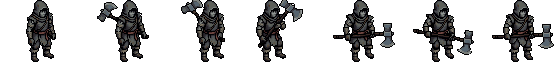
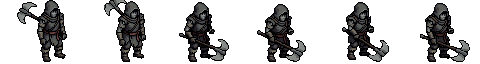
v3.8 — Balta saldırısında balta artık sırtta görünmüyor
Ölçüldü: güney saldırısında 7 karenin 5'i gövde genişliğindeydi (35,34,32,
31,31,65,66) — yani balta sırtta dik duruyor, yalnızca son iki kare savuruş.
Tarif karelerin çoğunu KALDIRMA fazına harcıyordu.

Yeni tarif animasyonu zaten havada başlatıyor ve baltanın gövdenin ÖNÜNDE
kalmasını şart koşuyor. Aynı ölçüm şimdi 35,34,39,59,58,62,63; kalan 1-3
hazırlık karesi de kırpma listesine eklenerek atılıyor (balta Attack artık
ONDEN_AT'ta). Sonuç: her karede balta önde.

Yürüyüşün başlangıç kare indisleri de yeni saldırı karelerine göre
güncellendi — yürüyüş kareleri zaten üretilmişti, bu yalnızca ileride
yeniden basılırsa doğru kareden başlasın diye.

Maliyet: 5 üretim.

diff --git a/lib/game/data.ts b/lib/game/data.ts
@@ -1,6 +1,6 @@
 /** Oyun surumu. Her yayina cikan degisiklikte 0.1 artar: 0.1, 0.2 ... 0.9,
  *  sonra 1.0, 1.1 diye devam eder. Ekranin sol altinda gorunur. */
-export const SURUM = '3.7';
+export const SURUM = '3.8';
 /** Gelisim asamasi. Oyun oynanabilir ama icerik ve sistemler (item seti, dil
  *  secenegi, masaustu arayuzu) hala eksik - yani alfa. Beta'ya gecisi bu sabit
  *  tasir; surum numarasiyla ayri tutuldu ki 1.x sayimi bozulmasin. */

diff --git a/scripts/v3_anim.py b/scripts/v3_anim.py
@@ -93,10 +93,14 @@ YUMRUK_VUR = ('throws a strong straight punch forward with the leading fist, sho
 # Balta seti icin ayri bir karakter DURUMU basilmadi (20 uretim): yay setinde
 # ogrenildi ki v3 uretken oldugu icin tarif yeterince israrciysa silahi kendisi
 # ciziyor. Baslangic karesi silahsiz TABAN karakter.
-BALTA_VUR = ('raises a large heavy two-handed splitting axe over the shoulder and brings '
-             'it down in a wide arc across the body, then pulls it back to a ready '
-             'stance; the axe has a broad steel head on a long wooden haft and is '
-             'gripped in both hands in every single frame')
+# Ilk tarif ("omuza kaldirir ve indirir") karelerin cogunu KALDIRMA fazina
+# harciyordu: 7 karenin 5'inde balta sirtta dik duruyor, yalnizca son ikisi
+# savurus. Yeni tarif animasyonu zaten havada BASLATIYOR ve baltanin govdenin
+# ONUNDE kalmasini sart kosuyor.
+BALTA_VUR = ('already holding a large heavy two-handed axe raised high overhead, swings '
+             'it down in a heavy arc in front of the body and follows through low, then '
+             'lifts it back up; the broad steel axe head is out in FRONT of the body in '
+             'every single frame and never rests on the back or the shoulder')
 BALTA_YUR = ('walks forward with a steady stride, legs alternating clearly, carrying a '
              'large two-handed axe resting on the shoulder; the broad axe head is '
              'clearly visible above the shoulder in every single frame')
@@ -138,11 +142,13 @@ BASLANGIC = {('yay', 'Walk', 'south-east'): ('Attack', 'south-east', 2),
              # Balta yuruyusu de saldiri karesinden basliyor: taban karakterin
              # donus karesinde balta yok, oradan baslayinca yuruyuste silah
              # kaybolur. Secilen kareler baltanin omuzda DIK durdugu anlar.
+             # Indisler saldiri tarifi degisince yenilendi: baltanin acikca
+             # elde oldugu ilk kareler.
              ('balta', 'Walk', 'south'): ('Attack', 'south', 3),
              ('balta', 'Walk', 'north'): ('Attack', 'north', 2),
              ('balta', 'Walk', 'east'): ('Attack', 'east', 2),
              ('balta', 'Walk', 'south-east'): ('Attack', 'south-east', 1),
-             ('balta', 'Walk', 'north-east'): ('Attack', 'north-east', 3)}
+             ('balta', 'Walk', 'north-east'): ('Attack', 'north-east', 1)}
 BALTA_YUR_HAZIR = ('walks forward with a steady stride, legs alternating clearly, while '
                    'keeping the large two-handed axe held exactly as in the starting '
                    'pose, resting against the shoulder; the axe never leaves the hands '

diff --git a/scripts/v3_kur.py b/scripts/v3_kur.py
@@ -93,7 +93,9 @@ YEDEK_YON = {}
 # yururken yay arada kayboluyordu. Bu kareler atilir - uretim harcamadan.
 # Esik bbox GENISLIGINDEN: yaysiz kare yalnizca govde kadar dar, yayli kare
 # kollari disina tasiyor. Olculen guney yuruyusu 33..59, dogu 21..46.
-ONDEN_AT = {('yay', 'Walk'), ('yay', 'Attack')}
+# Baltada da ayni sorun: ilk 1-2 karede balta henuz one cikmamis, sirtta
+# dik duruyor ve vurus o karelerde 'sirtinda tasiyor' gibi okunuyor.
+ONDEN_AT = {('yay', 'Walk'), ('yay', 'Attack'), ('balta', 'Attack')}
 # Esik 0.45'ti; saldirida yay DIKEY tutuldugu icin bbox'i genisletmiyor ve
 # iyi kareler de atiliyordu. Piksel sayisi denendi ve DAHA KOTU ayirdi
 # (yatay yayli kare 1532, yaysiz kare 1460 - %5 fark, siralamayi bile
